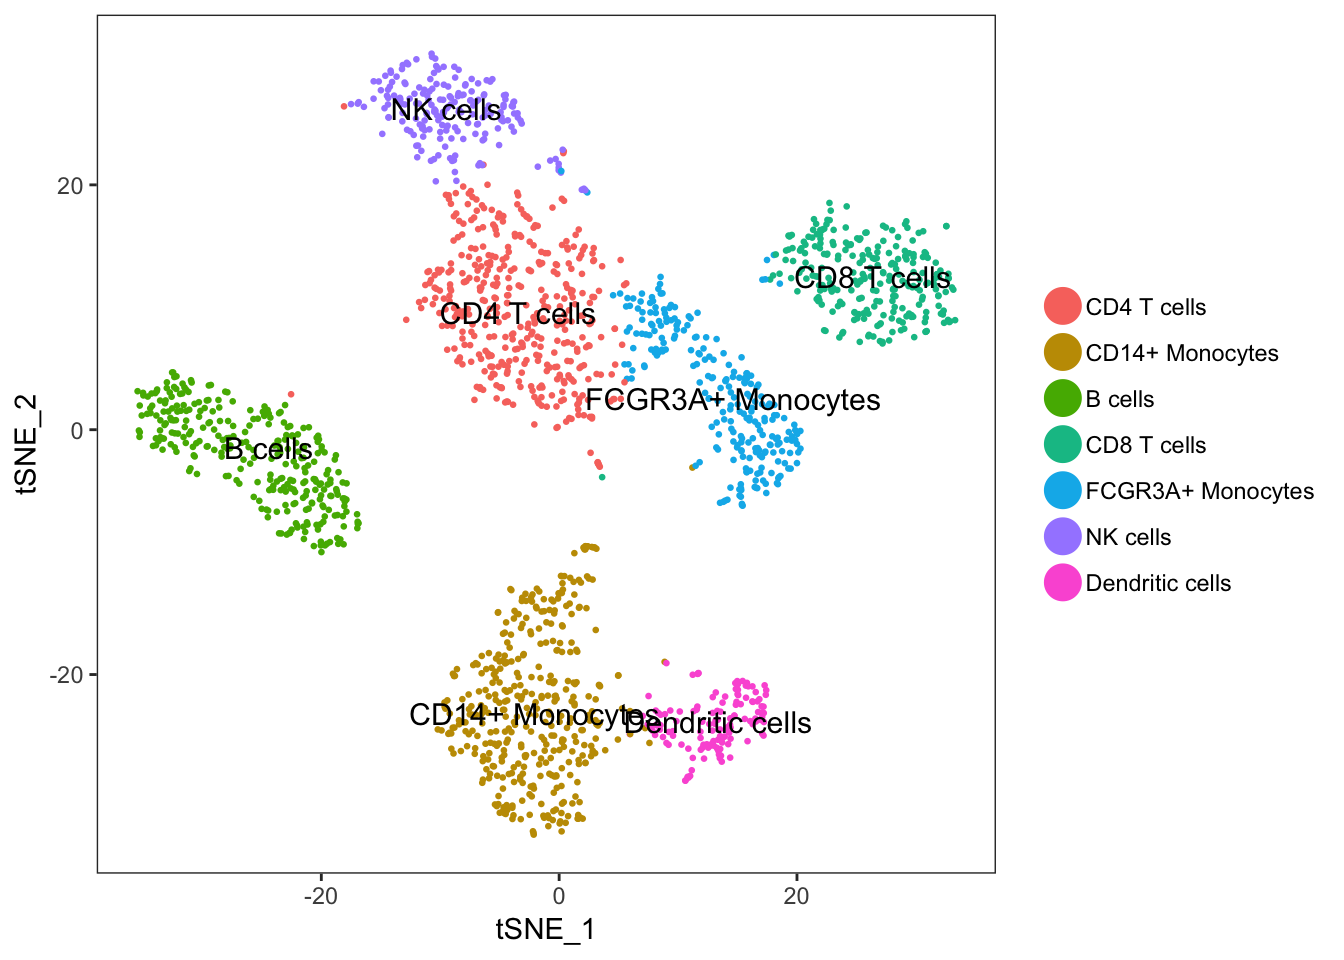
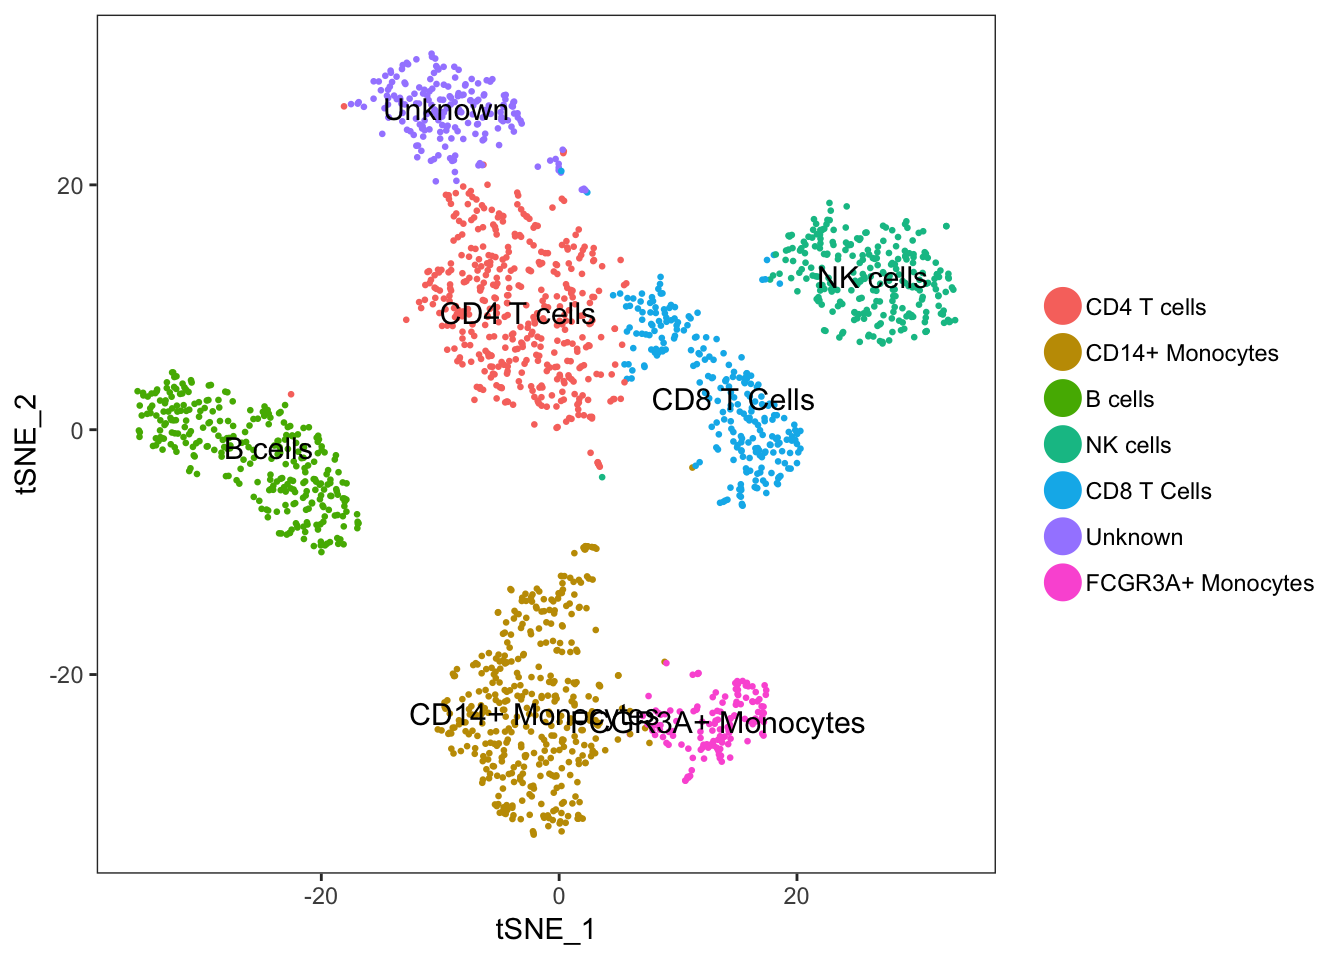
Build site.

diff --git a/docs/script.html b/docs/script.html
@@ -419,7 +419,7 @@ div.section {
 </div>
 
 
-<p><strong>Last updated:</strong> 2019-02-06</p>
+<p><strong>Last updated:</strong> 2019-02-08</p>
 <strong>workflowr checks:</strong> <small>(Click a bullet for more information)</small>
 <ul>
 <li>
@@ -443,7 +443,7 @@ div.section {
 </details>
 </li>
 <li>
-<p><details> <summary> <strong style="color:blue;">✔</strong> <strong>Repository version:</strong> <a href="https://github.com/lo2811/IPF_LB/tree/17760e6e38b2a813999e9aa0a95a1df35f2032c8" target="_blank">17760e6</a> </summary></p>
+<p><details> <summary> <strong style="color:blue;">✔</strong> <strong>Repository version:</strong> <a href="https://github.com/lo2811/IPF_LB/tree/acdfce705e08a6e737e8504f43eab06878e82891" target="_blank">acdfce7</a> </summary></p>
 Great! You are using Git for version control. Tracking code development and connecting the code version to the results is critical for reproducibility. The version displayed above was the version of the Git repository at the time these results were generated. <br><br> Note that you need to be careful to ensure that all relevant files for the analysis have been committed to Git prior to generating the results (you can use <code>wflow_publish</code> or <code>wflow_git_commit</code>). workflowr only checks the R Markdown file, but you know if there are other scripts or data files that it depends on. Below is the status of the Git repository when the results were generated:
 <pre><code>
 Untracked files:
@@ -476,6 +476,40 @@ Message
 </tr>
 </thead>
 <tbody>
+<tr>
+<td style="text-align:left;">
+Rmd
+</td>
+<td style="text-align:left;">
+<a href="https://github.com/lo2811/IPF_LB/blob/acdfce705e08a6e737e8504f43eab06878e82891/analysis/script.Rmd" target="_blank">acdfce7</a>
+</td>
+<td style="text-align:left;">
+lo2811
+</td>
+<td style="text-align:left;">
+2019-02-08
+</td>
+<td style="text-align:left;">
+Updated the Rmarkdown script
+</td>
+</tr>
+<tr>
+<td style="text-align:left;">
+html
+</td>
+<td style="text-align:left;">
+<a href="https://cdn.rawgit.com/lo2811/IPF_LB/929c8ced295b7b5cabec420f91bfd9f43e15d292/docs/script.html" target="_blank">929c8ce</a>
+</td>
+<td style="text-align:left;">
+lo2811
+</td>
+<td style="text-align:left;">
+2019-02-06
+</td>
+<td style="text-align:left;">
+Build site.
+</td>
+</tr>
 <tr>
 <td style="text-align:left;">
 html
@@ -537,7 +571,7 @@ Add the first analysis
 <pre class="r"><code>install.packages(&quot;Seurat&quot;, repos = &quot;http://cran.us.r-project.org&quot;)</code></pre>
 <pre><code>
 The downloaded binary packages are in
-    /var/folders/02/9007bm513wgcq5lvlgxl_mtm09400x/T//RtmpfmdTpc/downloaded_packages</code></pre>
+    /var/folders/02/9007bm513wgcq5lvlgxl_mtm09400x/T//RtmphcqUa7/downloaded_packages</code></pre>
 <pre class="r"><code>library(Seurat)</code></pre>
 <pre><code>Loading required package: ggplot2</code></pre>
 <pre><code>Loading required package: cowplot</code></pre>
@@ -776,12 +810,11 @@ lo2811
 </tbody>
 </table>
 <p></details></p>
-<pre class="r"><code>current.cluster.ids &lt;- c(0, 1, 2, 3, 4, 5, 6, 7)
-new.cluster.ids &lt;- c(&quot;CD4 T cells&quot;, &quot;CD14+ Monocytes&quot;, &quot;B cells&quot;, &quot;CD8 T cells&quot;, 
-    &quot;FCGR3A+ Monocytes&quot;, &quot;NK cells&quot;, &quot;Dendritic cells&quot;, &quot;Megakaryocytes&quot;)
-pbmc@ident &lt;- plyr::mapvalues(x = pbmc@ident, from = current.cluster.ids, to = new.cluster.ids)</code></pre>
-<pre><code>The following `from` values were not present in `x`: 7</code></pre>
-<pre class="r"><code>TSNEPlot(object = pbmc, do.label = TRUE, pt.size = 0.5)</code></pre>
+<pre class="r"><code>current.cluster.ids &lt;- c(0, 1, 2, 3, 4, 5, 6)
+new.cluster.ids &lt;- c(&quot;CD4 T cells&quot;, &quot;CD14+ Monocytes&quot;, &quot;B cells&quot;, &quot;NK cells&quot;, 
+    &quot;CD8 T Cells&quot;, &quot;Unknown&quot;, &quot;FCGR3A+ Monocytes&quot;)
+pbmc@ident &lt;- plyr::mapvalues(x = pbmc@ident, from = current.cluster.ids, to = new.cluster.ids)
+TSNEPlot(object = pbmc, do.label = TRUE, pt.size = 0.5)</code></pre>
 <p><img src="figure/script.Rmd/unnamed-chunk-9-2.png" width="672" style="display: block; margin: auto;" /></p>
 <details> <summary><em>Expand here to see past versions of unnamed-chunk-9-2.png:</em></summary>
 <table style="border-collapse:separate; border-spacing:5px;">
